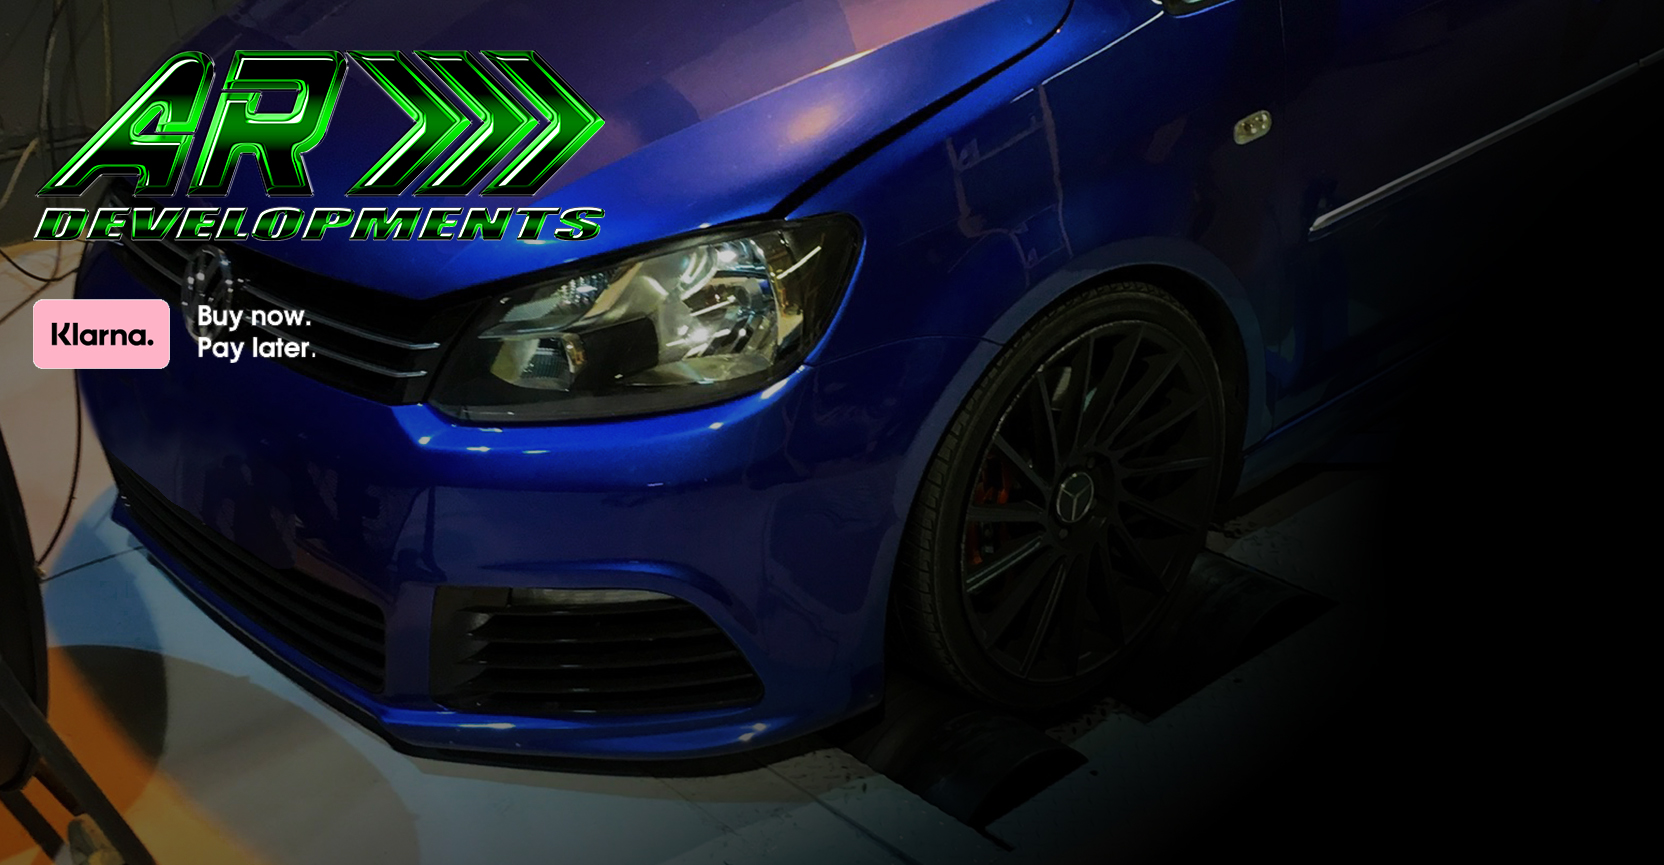
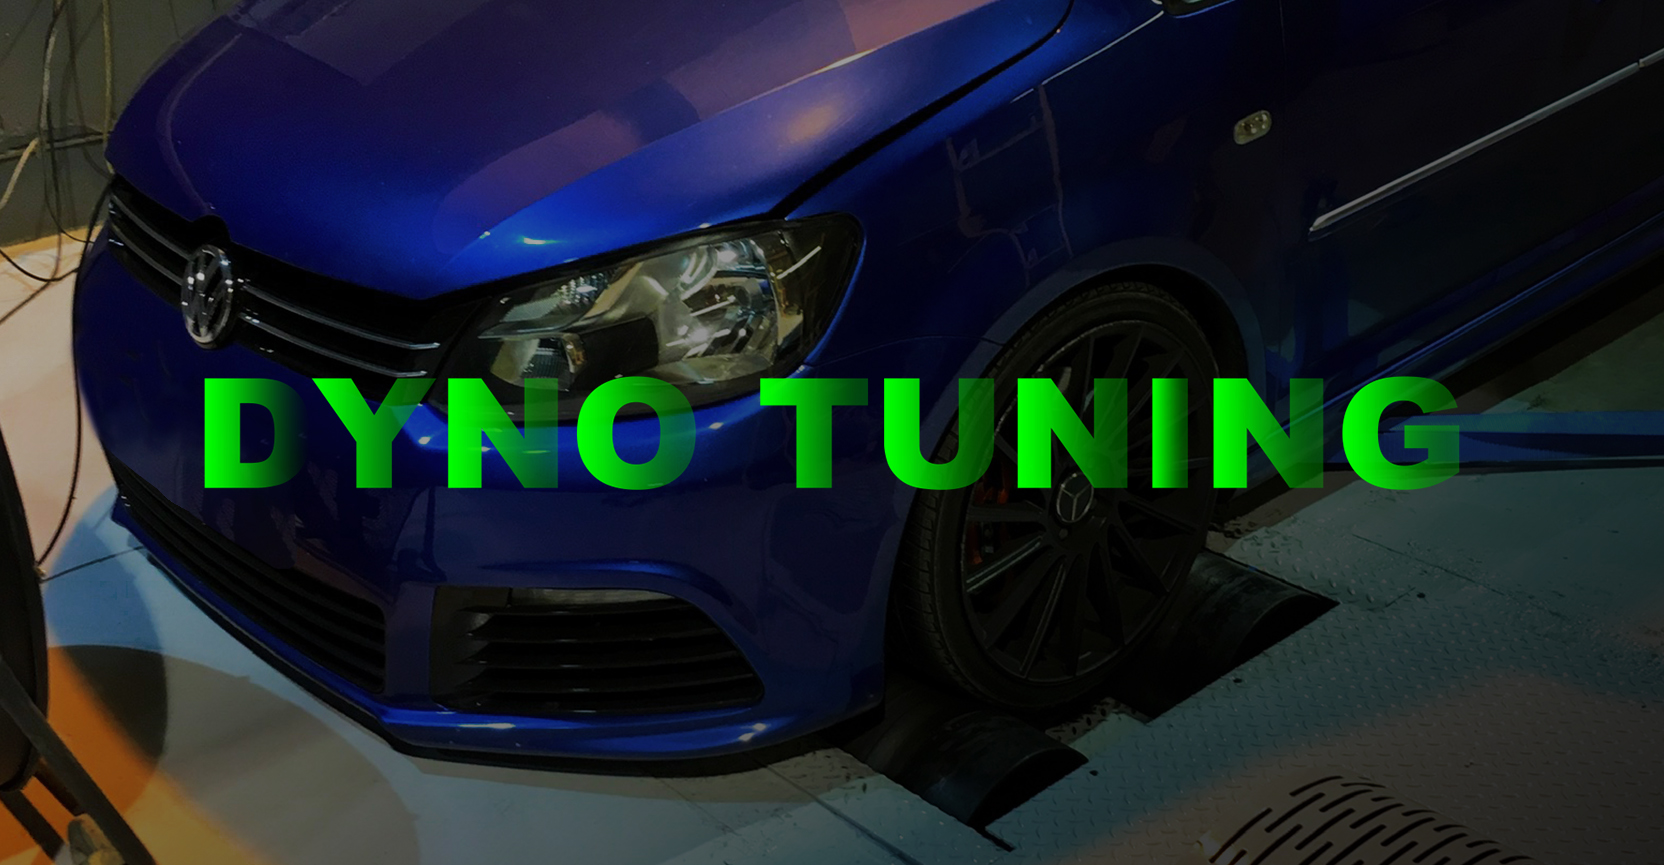
slide links

diff --git a/shop.html b/shop.html
@@ -132,18 +132,18 @@
 			<div class="carousel-inner" role="listbox" >
 					<div class="carousel-item active" id="cr1"> 
 						
-						<div class="bt" id="c1"> <a href="contact.html"><b class="active"><span>Shop Rotiform</span></b></a> </div>
+						<div class="bt" id="c1"> <a href="https://www.ar-developments.co.uk/shop?store-page=wheels-c139664784"><b class="active"><span>Shop Rotiform</span></b></a> </div>
 					
 						
 						
 					</div>
 					<div class="carousel-item" id="cr2"> 
-						<div class="bt" id="c2"> <a href="contact.html"><b class="active"><span>Shop Airlift</span></b></a> </div>
+						<div class="bt" id="c2"> <a href="https://www.ar-developments.co.uk/shop?store-page=airride-c139666412"><b class="active"><span>Shop Airlift</span></b></a> </div>
 						
 						
 					</div>
 					<div class="carousel-item" id="cr3"> 
-						<div class="bt" id="c3"> <a href="contact.html"><b class="active"><span>Dyno Tuning</span></b></a> </div>
+						<div class="bt" id="c3"> <a href="remapping.html"><b class="active"><span>Dyno Tuning</span></b></a> </div>
 						
 					</div>
 			</div>

diff --git a/assets/css/style.css b/assets/css/style.css
@@ -40,9 +40,7 @@
 	width: 250px;
 	z-index: 10;
 	position: absolute;
-	 bottom: 70px;
-	margin-left: 10px;
-	
+	 bottom: 12%;
 }
 
 #my-search-79722719{
@@ -2004,7 +2002,7 @@ form {}
     3D carousel
 ------------------------------------*/
 #cr3{
-  background: url("../images/slide/dyno_slider.jpg") no-repeat;
+  background: url("../images/slide/dyno_slider.jpg") center no-repeat;
   background-size: cover;
   overflow: hidden;
   position: relative;
@@ -2025,4 +2023,9 @@ form {}
   overflow: hidden;
   position: relative;
   z-index: 0;
+}
+#cr3{
+	 display: flex;
+	 align-items: center;
+	 justify-content: center;
 }
